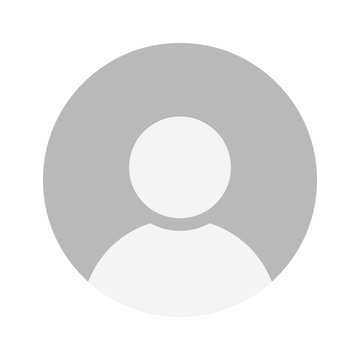
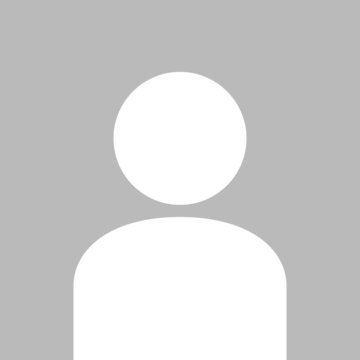
Polished look of default profile picture on profile page, arepurposed add tag feature to manage tag feature, allowing user to both delete, and add tags. Made it so that when a tag is deleted, all trades that have the deleted tag will have this tag removed from their tags map property (achieved throu

diff --git a/client/src/components/TradesComponent.js b/client/src/components/TradesComponent.js
@@ -1,4 +1,5 @@
-import { useState } from "react";
+import { useState, useEffect } from "react";
+import { FaTimes } from "react-icons/fa";
 
 import Wrapper from "../assets/wrappers/TradesComponent";
 
@@ -9,6 +10,9 @@ import { useAppContext } from "../context/appContext";
 function TradesComponent() {
   // tag text local state variable
   const [tag, setTag] = useState("");
+
+  // local isLoading variable for loading the tags in the tag modal
+  const [isLoading, setIsLoading] = useState(true);
 
   // global state functions and variables
   const {
@@ -21,7 +25,20 @@ function TradesComponent() {
     toggleTagModal,
     clearAlert,
     showAlert,
+    fetchTags,
+    tags,
+    deleteTag,
   } = useAppContext();
+
+  // useEffect
+  // on initial render, fetch the tags and retrieve the updated global state tags variable to be displayed to the user
+  useEffect(() => {
+    const loadData = async () => {
+      await fetchTags();
+      setIsLoading(false);
+    };
+    loadData();
+  }, []);
 
   // add trade button handler (toggles modal)
   const addTradeHandler = (e) => {
@@ -72,9 +89,15 @@ function TradesComponent() {
     // create tag, update global tags array, then toggle tag modal
     const submitData = async () => {
       await createTag(tag);
+      setTag("");
     };
 
     submitData();
+  };
+
+  // delete tag button handler
+  const deleteTagHandler = (tagId) => {
+    deleteTag(tagId);
   };
 
   return (
@@ -100,7 +123,7 @@ function TradesComponent() {
         <div className="add-tag-container">
           {/* add tag button */}
           <button className="btn" onClick={addTagHandler}>
-            Add Tag
+            Manage Tags
           </button>
         </div>
       </div>
@@ -110,12 +133,35 @@ function TradesComponent() {
         <div className="add-tag-modal">
           <div className="tag-modal-content">
             {/* header */}
-            <h3>Add tag</h3>
+            <h3>Manage tags</h3>
 
             {/* alert */}
             {showAlert && <Alert />}
 
-            {/* modal form */}
+            {/* modal delete tag container */}
+            {/* only show this container if tags have been loaded */}
+            {!isLoading && (
+              <div className="delete-tag-container">
+                {/* display existing tags with remove button */}
+                {tags.map((tagItem) => {
+                  return (
+                    <span key={tagItem._id} className="delete-tag-item">
+                      <button
+                        className="close-button"
+                        onClick={() => {
+                          deleteTagHandler(tagItem._id);
+                        }}
+                      >
+                        <FaTimes />
+                      </button>
+                      {tagItem.text}
+                    </span>
+                  );
+                })}
+              </div>
+            )}
+
+            {/* modal add tag form */}
             <form className="add-tag-form" onSubmit={submitTagHandler}>
               {/* text box for user to type tag they want to add */}
               <input
@@ -123,6 +169,7 @@ function TradesComponent() {
                 type="text"
                 className="add-tag-text"
                 onChange={handleTag}
+                value={tag}
                 autoComplete="off"
               />
 
@@ -130,7 +177,7 @@ function TradesComponent() {
               <div className="btn-container">
                 {/* button to save tag */}
                 <button type="submit" className="btn">
-                  save
+                  add
                 </button>
                 {/* button to cancel tag creation */}
                 <button

diff --git a/client/src/context/appContext.js b/client/src/context/appContext.js
@@ -56,12 +56,16 @@ import {
   CREATE_TAG_BEGIN,
   CREATE_TAG_SUCCESS,
   CREATE_TAG_ERROR,
+  DELETE_TAG_BEGIN,
+  DELETE_TAG_SUCCESS,
+  DELETE_TAG_ERROR,
   SET_SELECTED_TAGS,
   FETCH_CHARTDATA_BEGIN,
   FETCH_CHARTDATA_SUCCESS,
   FETCH_CHARTDATA_ERROR,
   CLEAR_ALERT,
 } from "./actions";
+import { Action } from "history";
 
 // initial global state (used for keeping track of existence of user)
 // on each re-render, get the user data and token from local storage
@@ -638,6 +642,30 @@ function AppContextProvider({ children }) {
     }
   };
 
+  // delete tag
+  const deleteTag = async (tagId) => {
+    try {
+      // try and send a delete request to delete tag
+      dispatch({ type: DELETE_TAG_BEGIN });
+      await authFetch.delete(`tags/${tagId}`);
+
+      // send get request to get all of the tags after adding it
+      const { data: tagsData } = await authFetch.get("/tags");
+
+      // send get request to get all of the trades
+      const { data: tradesData } = await authFetch.get("/trades");
+
+      // update global tags property
+      dispatch({
+        type: DELETE_TAG_SUCCESS,
+        payload: { tags: tagsData.tags, trades: tradesData.trades },
+      });
+    } catch (error) {
+      console.log(error);
+      dispatch({ type: DELETE_TAG_ERROR });
+    }
+  };
+
   // set selected tag
   const setSelectedTags = async (selectedTags) => {
     dispatch({ type: SET_SELECTED_TAGS, payload: { selectedTags } });
@@ -714,6 +742,7 @@ function AppContextProvider({ children }) {
         createJournal,
         fetchTags,
         createTag,
+        deleteTag,
         setSelectedTags,
         getChartData,
       }}

diff --git a/client/src/assets/wrappers/TradesComponent.js b/client/src/assets/wrappers/TradesComponent.js
@@ -53,13 +53,64 @@ const Trades = styled.div`
     justify-content: center;
     margin: 2rem auto;
     padding: 1rem;
-    width: var(--fluid-width);
-    max-width: 15rem;
+    width: 50%;
+    min-width: 30rem;
+    max-width: 20rem;
     background-color: var(--gray-100);
+  }
+
+  .delete-tag-container {
+    display: flex;
+    width: 100%;
+    justify-content: flex-start;
+    flex-wrap: wrap;
+    margin-bottom: 1rem;
+    column-gap: 0.25rem;
+    row-gap: 0.25rem;
+  }
+
+  .delete-tag-item {
+    display: flex;
+    column-gap: 0.25rem;
+    align-items: center;
+    justify-content: center;
+    white-space: nowrap;
+    color: var(--gray-50);
+    text-transform: uppercase;
+    font-size: 0.75rem;
+    padding: 0.1rem 0.25rem;
+    border-radius: var(--borderRadius-1);
+    border: 2px solid var(--primary-600);
+    background-color: var(--primary-500);
+  }
+
+  .delete-tag-item .close-button {
+    display: flex;
+    align-items: center;
+    justify-content: center;
+    height: 20px;
+    width: 20px;
+    color: var(--primary-800);
+    padding: 0.1rem;
+    border-radius: 20px;
+    border: 2px solid var(--primary-700);
+    background-color: var(--primary-500);
+    transition: var(--transition);
+  }
+
+  .delete-tag-item .close-button:hover {
+    cursor: pointer;
+    border: 2px solid var(--primary-200);
+    color: var(--primary-200);
+  }
+
+  .add-tag-form {
+    width: 100%;
   }
 
   /* add tag text box */
   .add-tag-text {
+    width: 100%;
     margin-bottom: 1rem;
     border-radius: var(--borderRadius-2);
     border: 2px solid var(--gray-700);

diff --git a/client/src/assets/wrappers/AddTradeModal.js b/client/src/assets/wrappers/AddTradeModal.js
@@ -75,12 +75,14 @@ const AddTradeModal = styled.div`
   /* multi-select dropdown styles */
   .multi-select-dropdown {
     display: flex;
+    flex-wrap: wrap;
     align-items: center;
+    row-gap: 0.25rem;
     width: 100%;
     padding-top: 0.375rem;
     padding-bottom: 0.375rem;
     padding-left: 0.75rem;
-    height: 2.25rem;
+    min-height: 2.25rem;
     border: 1px solid var(--gray-200);
     border-radius: var(--borderRadius-2);
     user-select: none;
@@ -88,6 +90,8 @@ const AddTradeModal = styled.div`
 
   /* tag multi-select dropdown button container styles */
   .dropdown-button-container {
+    position: absolute;
+    right: 0.25rem;
     display: flex;
     align-items: center;
     justify-content: flex-end;
@@ -124,12 +128,14 @@ const AddTradeModal = styled.div`
     height: 100%;
     justify-content: center;
     align-items: center;
-    padding: 0.3rem;
+    text-transform: uppercase;
+    font-size: 0.75rem;
+    padding: 0.1rem 0.3rem;
     margin-right: 0.5rem;
     background-color: var(--primary-500);
     color: var(--gray-100);
     border-radius: var(--borderRadius-2);
-    border: 1px solid var(--primary-600);
+    border: 2px solid var(--primary-600);
     box-shadow: var(--shadow-1);
     white-space: nowrap;
   }

diff --git a/client/src/context/reducer.js b/client/src/context/reducer.js
@@ -51,6 +51,9 @@ import {
   CREATE_TAG_BEGIN,
   CREATE_TAG_SUCCESS,
   CREATE_TAG_ERROR,
+  DELETE_TAG_BEGIN,
+  DELETE_TAG_SUCCESS,
+  DELETE_TAG_ERROR,
   SET_SELECTED_TAGS,
   FETCH_CHARTDATA_BEGIN,
   FETCH_CHARTDATA_SUCCESS,
@@ -472,12 +475,32 @@ const reducer = (state, action) => {
     return { ...state };
   }
 
+  // -- DELETE TAG --
+  if (action.type === DELETE_TAG_BEGIN) {
+    console.log("delete tag begin");
+    return { ...state };
+  }
+
+  if (action.type === DELETE_TAG_SUCCESS) {
+    console.log("delete tag success");
+    return {
+      ...state,
+      tags: action.payload.tags,
+      trades: action.payload.trades,
+    };
+  }
+
+  if (action.type === DELETE_TAG_ERROR) {
+    console.log("delete tag error");
+    return { ...state };
+  }
+
   if (action.type === CREATE_TAG_SUCCESS) {
     console.log("create tag success");
     return {
       ...state,
       tags: action.payload.tags,
-      showTagModal: !state.showTagModal,
+      // showTagModal: !state.showTagModal,
     };
   }
 

diff --git a/models/Tag.js b/models/Tag.js
@@ -1,4 +1,5 @@
 import mongoose from "mongoose";
+import Trade from "./Trade.js";
 
 // tag schema
 // text property
@@ -13,6 +14,24 @@ const TagSchema = new mongoose.Schema({
     type: mongoose.Types.ObjectId,
     ref: "User",
   },
+});
+
+// tag middleware that triggers before tag is removed
+TagSchema.pre("deleteOne", { document: true, query: false }, async function () {
+  // get this tag's id
+  var tagId = this._id;
+
+  // find all trades that have this tag
+  const trades = await Trade.find({ createdBy: this.createdBy })
+    .where(`tags.${tagId}`)
+    .exists();
+
+  // loop through each trade
+  trades.forEach(async (trade, index) => {
+    // delete the tag with this tagId from the current trade.tags map in loop
+    trade.tags.delete(tagId);
+    await trade.save();
+  });
 });
 
 // export tag model

diff --git a/client/src/context/actions.js b/client/src/context/actions.js
@@ -71,6 +71,10 @@ export const CREATE_TAG_ERROR = "CREATE_TAG_ERROR";
 
 export const SET_SELECTED_TAGS = "SET_SELECTED_TAGS";
 
+export const DELETE_TAG_BEGIN = "DELETE_TAG_BEGIN";
+export const DELETE_TAG_SUCCESS = "DELETE_TAG_SUCCESS";
+export const DELETE_TAG_ERROR = "DELETE_TAG_ERROR";
+
 export const FETCH_CHARTDATA_BEGIN = "FETCH_CHARTDATA_BEGIN";
 export const FETCH_CHARTDATA_SUCCESS = "FETCH_CHARTDATA_SUCCESS";
 export const FETCH_CHARTDATA_ERROR = "FETCHT_CHARTDATA_ERROR";

diff --git a/controllers/tagController.js b/controllers/tagController.js
@@ -42,9 +42,10 @@ const deleteTag = async (req, res) => {
   const { id } = req.params;
 
   // delete the tag with the given id
-  const tag = await Tag.deleteOne({ _id: id });
+  const tag = await Tag.findOne({ _id: id });
+  const tagDeleted = await tag.deleteOne();
 
-  res.status(StatusCodes.OK).json({ msg: "tag deleted", tag });
+  res.status(StatusCodes.OK).json({ msg: "tag deleted", tagDeleted });
 };
 
 export { getTags, createTag, deleteTag };
